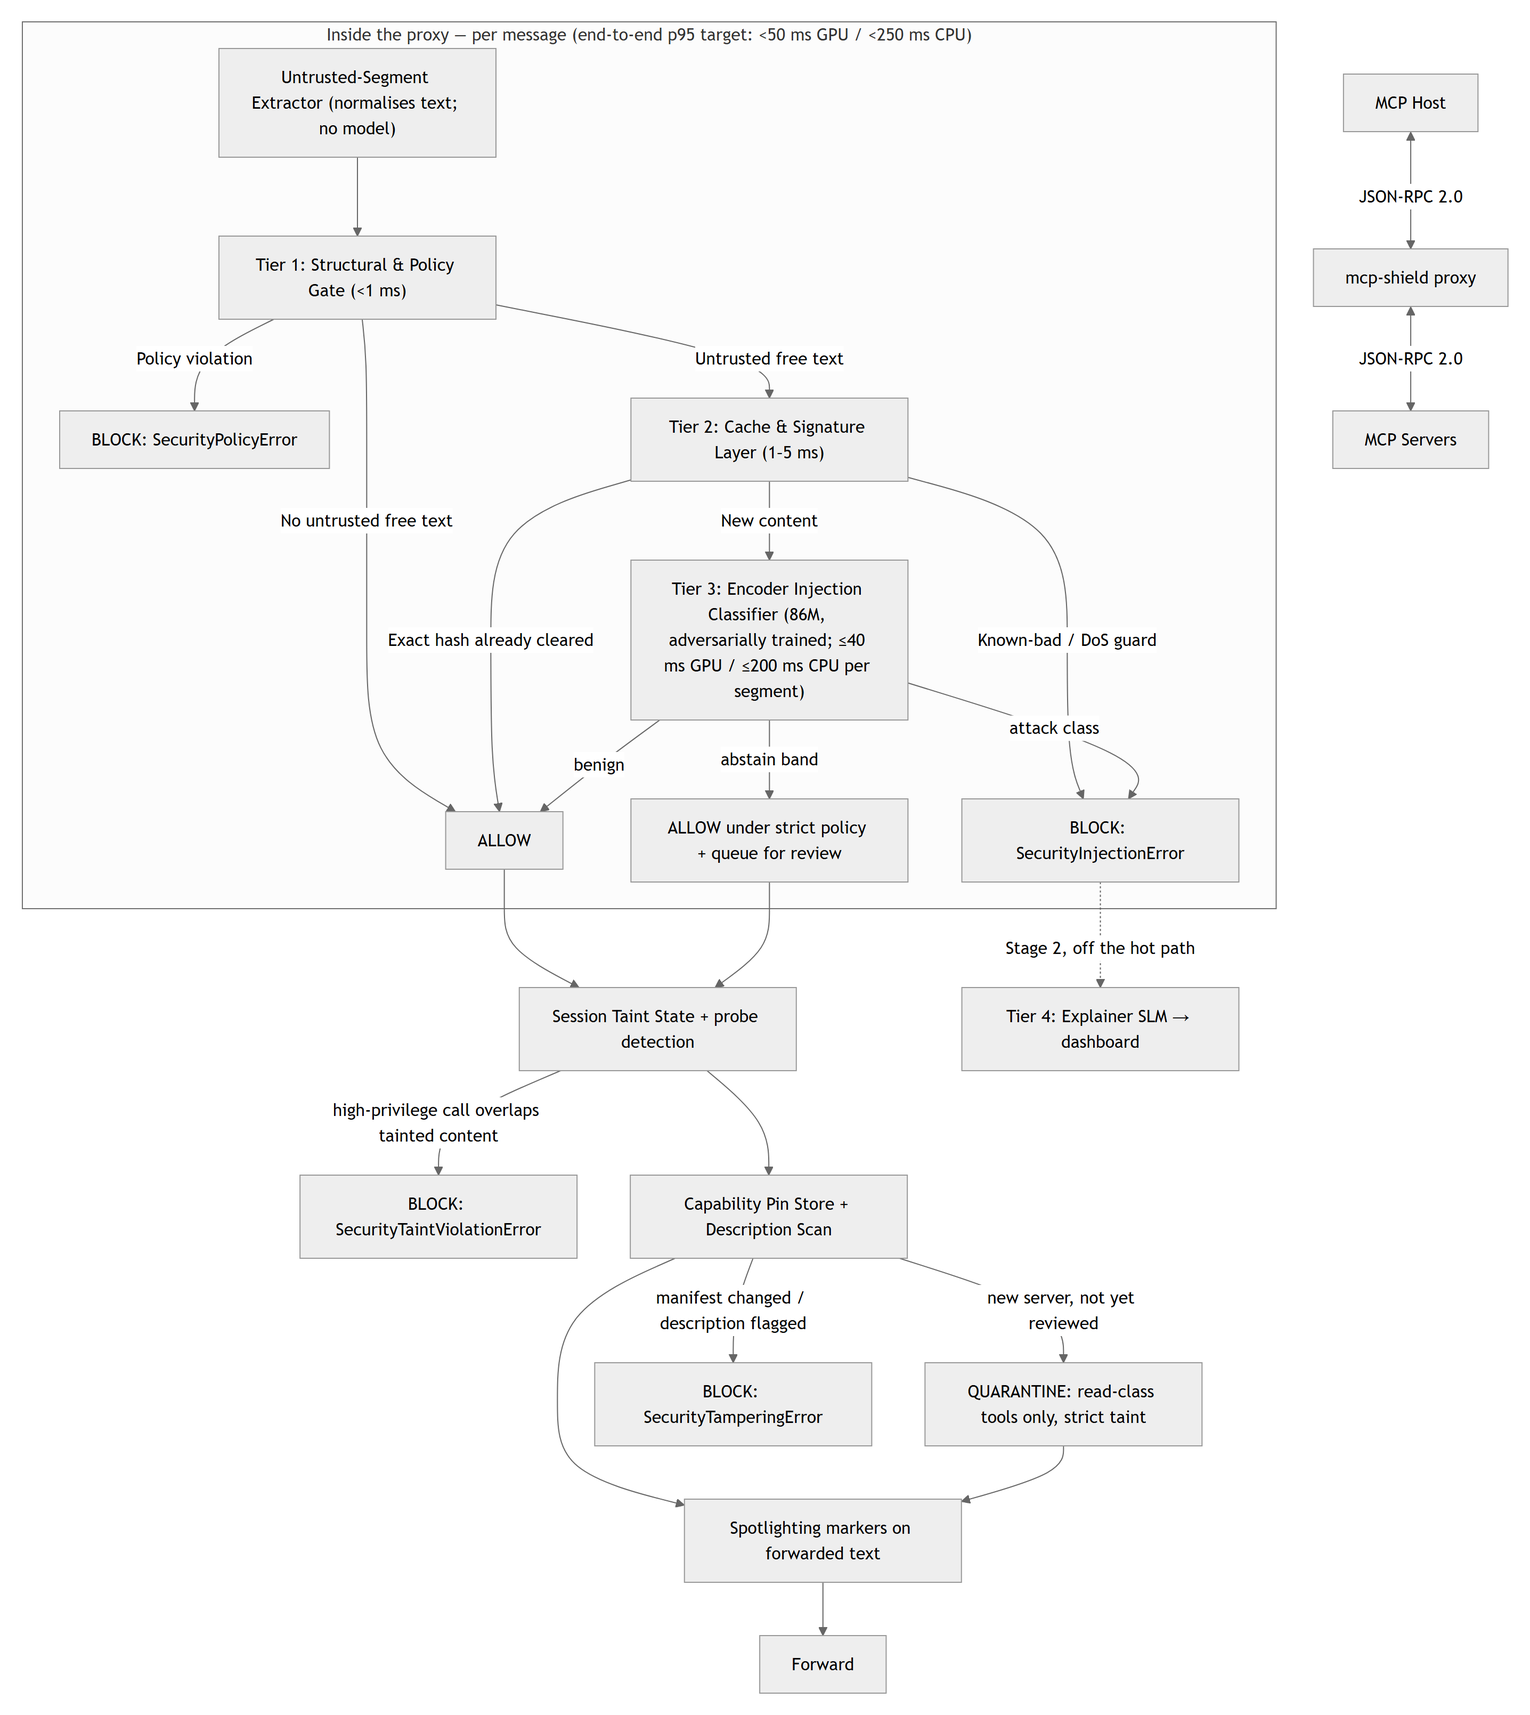
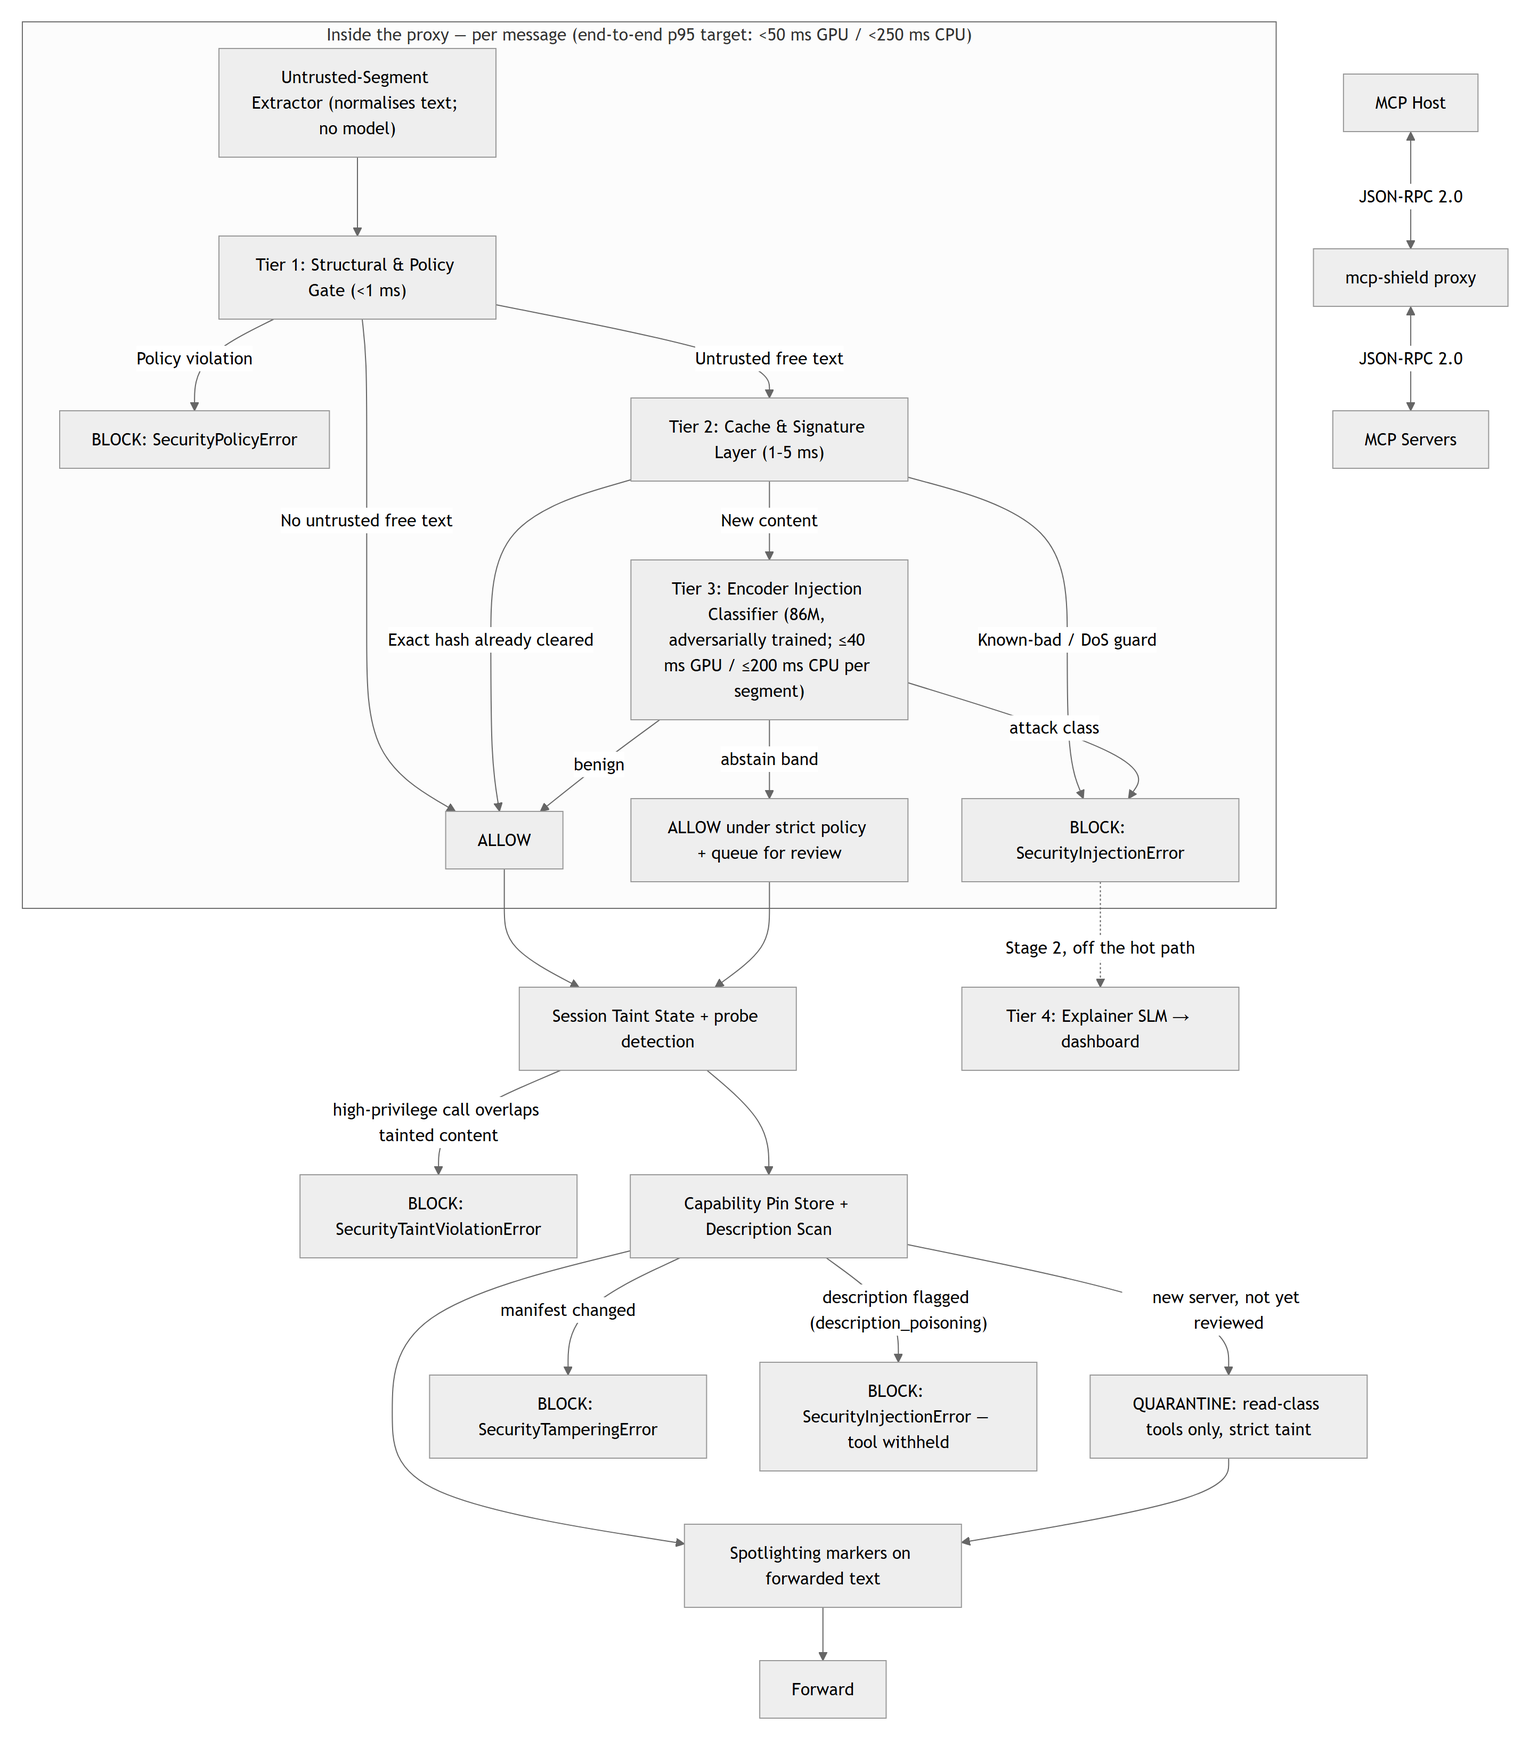
Fix the review findings: Fig 3 no-oracle, description_poisoning error class, drift
Fig 3 and slide v.2 showed the proxy returning the error class and
probability to the host; the host receives only the opaque stub, so the
diagram now logs the class locally and sends the stub, with the server
receiving nothing. description_poisoning is a classifier verdict and
raises SecurityInjectionError (tool withheld); SecurityTamperingError is
reserved for a manifest that changed after pinning — cascade diagram
split accordingly in 02, README and the script, stated in 02 §5/§8,
06 and the Review-2 error table, dashboard quarantine class fixed.
Dashboard blocked tile matches its own list; 07 TOML shows the real
default audit path; H1 titles of 01/04/06/07 match their filenames;
script references in numeric order. Fig 3 and the cascade PNG
re-exported.

diff --git a/Dashboard Prototype.html b/Dashboard Prototype.html
@@ -422,7 +422,7 @@
   servers.forEach(s => s.tools.forEach(([t, c]) => tools.push({ server: s.id, tool: t, cls: c, by: c === 'read' ? 'name heuristic' : (t === 'run_shell' ? 'config' : (['send_email','fetch_url','search','export_workspace'].includes(t) ? 'name heuristic' : 'annotation ↑')), shell: s.mode === 'shell', approval: t === 'run_shell' || t === 'send_email' || t === 'execute', cap: c === 'read' ? '2 MB (truncate + flag)' : '256 KB' })));
 
   const state = { tab: 'traffic', traffic: seedTraffic.map(r => ({ time: r[0], dir: r[1], session: r[2], server: r[3], tool: r[4], method: r[5], segs: r[6], tiers: r[7], verdict: r[8], ref: r[9] || null })),
-    selected: flagged[0].ref, checked: 1284, blocked: 6, paused: false, spark: { checked: [61,72,80,74,90,97,88,102,110,96,104,115], p95: [39,42,40,44,41,38,43,40,42,39,41,41], blocked: [0,1,0,0,2,0,1,0,0,1,0,1] } };
+    selected: flagged[0].ref, checked: 1284, blocked: 5, paused: false, spark: { checked: [61,72,80,74,90,97,88,102,110,96,104,115], p95: [39,42,40,44,41,38,43,40,42,39,41,41], blocked: [0,1,0,0,1,0,1,0,0,1,0,1] } };
 
   // ---------------- charts ----------------
   function sparkline(values, opts) {
@@ -435,7 +435,7 @@
   function renderTiles() {
     const t = [
       { lbl: 'Messages checked · 24 h', val: state.checked.toLocaleString(), delta: '+9 % vs yesterday', dc: '', spark: state.spark.checked, sl: 'messages per 2-hour bucket' },
-      { lbl: 'Blocked · 24 h', val: String(state.blocked), unit: '+1 quarantined', delta: '2 taint · 2 injection · 1 policy · 1 DoS', dc: '', spark: state.spark.blocked, sl: 'blocks per 2-hour bucket' },
+      { lbl: 'Blocked · 24 h', val: String(state.blocked), unit: '+1 quarantined', delta: '1 injection · 1 taint · 1 policy · 1 tampering · 1 DoS', dc: '', spark: state.spark.blocked, sl: 'blocks per 2-hour bucket' },
       { lbl: 'End-to-end p95 latency', val: '41', unit: 'ms · GPU', delta: 'target < 50 ms GPU · < 250 ms CPU', dc: 'good', spark: state.spark.p95, sl: 'p95 latency per 2-hour bucket, ms' },
       { lbl: 'Sessions', val: '2', unit: '1 strict', delta: 'sess-9b2f escalated by probe detection', dc: 'bad', spark: [1,1,2,2,2,2,2,2,2,2,2,2], sl: 'active sessions' },
     ];
@@ -500,7 +500,7 @@
     $('#flag-detail').innerHTML = `
       <dl class="kv"><dt>Verdict</dt><dd>${kindChip(f.kind)} <span style="margin-left:6px">${esc(f.tier)} · <code>${esc(f.cls)}</code>${f.overlap ? ' · ' + esc(f.overlap) : ''}</span></dd>
         <dt>Where</dt><dd><b>${esc(f.server)}</b> · <code>${esc(f.tool)}</code> · ${f.dir === '←' ? 'server → host' : 'host → server'} · session <code>${esc(f.session)}</code> · ${esc(f.time)}</dd>
-        <dt>Error class</dt><dd><code>${{ injection: 'SecurityInjectionError', dos: 'SecurityInjectionError', policy: 'SecurityPolicyError', taint: 'SecurityTaintViolationError', tamper: 'SecurityTamperingError', quarantine: 'SecurityTamperingError (withheld)', abstain: '— (forwarded)' }[f.kind]}</code></dd></dl>
+        <dt>Error class</dt><dd><code>${{ injection: 'SecurityInjectionError', dos: 'SecurityInjectionError', policy: 'SecurityPolicyError', taint: 'SecurityTaintViolationError', tamper: 'SecurityTamperingError', quarantine: 'SecurityInjectionError (description_poisoning · tool withheld)', abstain: '— (forwarded)' }[f.kind]}</code></dd></dl>
       ${probRow}
       <div><h4>Offending segment <span style="font-weight:400;text-transform:none;letter-spacing:0">— kept locally only · redacted · 7-day retention</span></h4><pre class="seg">${highlight(f.segment)}</pre></div>
       ${f.note ? `<div class="note">${esc(f.note)}</div>` : ''}

diff --git a/02 - System Architecture & Technical Implementation.md b/02 - System Architecture & Technical Implementation.md
@@ -130,7 +130,8 @@ graph TD
     Taint -->|"write/execute/egress call overlaps tainted content"| Deny3["BLOCK: SecurityTaintViolationError"]
     Taint --> Pin["Capability Pin Store (SHA-256, per server) + description scan"]
     Pin -->|"new server, manifest not yet reviewed"| Quar["QUARANTINE: read-class tools only, strict taint, until accepted"]
-    Pin -->|"manifest changed / description flagged"| Deny4["BLOCK: SecurityTamperingError"]
+    Pin -->|"manifest changed"| Deny4["BLOCK: SecurityTamperingError"]
+    Pin -->|"description flagged (description_poisoning)"| Deny5["BLOCK: SecurityInjectionError — tool withheld"]
     Pin --> Spot["Spotlighting: wrap forwarded text in untrusted-data markers"]
     Quar --> Spot
     Spot --> Out["Forward to host / server"]
@@ -219,7 +220,7 @@ A deterministic walker over the JSON-RPC message that yields `(context_prefix, t
 ## 5. Capability Pinning + Description Scanning (Stage 1)
 
 - **Pin**: on the first `tools/list` (also `prompts/list`, `resources/templates/list`) from a server, each tool's canonical JSON (name, description, `inputSchema`, `outputSchema`, annotations) is hashed with SHA-256 and stored in a per-server pin store. Every later list result is compared; any changed or added tool is withheld from the host and raises **`SecurityTamperingError`** until the developer explicitly re-pins (`mcp-shield pin --server <name> --accept`). `subscriptions/listen` → `toolsListChanged` is the spec-native trigger for re-checking. **Legitimate updates look like rug-pulls**: any server update changes descriptions, so on change the dashboard shows a description diff and the re-scan verdict and offers one-click re-pin when the scan is clean; known-manifest version bumps are guided the same way. Without this every `npm update` would be an alert — a UX limitation, stated as such.
-- **Scan**: every description and schema string is run through Tier 3 at list time (`description_poisoning` class). A flagged tool is never exposed to the host. This is what addresses **first-contact** poisoning, which pinning alone cannot.
+- **Scan**: every description and schema string is run through Tier 3 at list time (`description_poisoning` class). A flagged tool is never exposed to the host — this is a classifier verdict, so it raises **`SecurityInjectionError`** (class `description_poisoning`); `SecurityTamperingError` is reserved for a manifest that *changed* after pinning. This is what addresses **first-contact** poisoning, which pinning alone cannot.
 - **First-contact quarantine ("trust on first review")**: a server with no entry in the pin store starts **quarantined**: its `read`-class tools are exposed, its `write` / `execute` / `egress` tools are withheld, and all of its results are handled under `strict` taint policy — until the developer has looked at the pinned manifest and the scan verdicts and accepted them (`mcp-shield pin --server <name> --accept`, or one click in the dashboard). The package also ships **known manifests**: published SHA-256 pins for the reference MCP servers, so those are trusted on match without a manual step.
 - **Known limitation (TOFU, narrowed)**: pinning alone is trust-on-first-use, the same limitation the base paper names for ATTESTMCP. Quarantine turns it into trust-on-first-*review* — a human sees the descriptions and the classifier's verdicts before a new server gets any dangerous capability — but a reviewer can still approve a description whose malice neither they nor the classifier recognise.
 
@@ -256,7 +257,7 @@ The same fields live in `mcp-shield.toml` for the proxy. There is no separate `s
 |Error|Raised by|Meaning|
 |:--|:--|:--|
 |`SecurityPolicyError`|Tier 1|Header/body mismatch, disallowed tool, argument policy violation, schema violation|
-|`SecurityInjectionError`|Tier 2/3|Known-bad signature, DoS guard, or classifier verdict ≠ `benign` (class + probability recorded internally)|
+|`SecurityInjectionError`|Tier 2/3|Known-bad signature, DoS guard, or classifier verdict ≠ `benign` (class + probability recorded internally) — including `description_poisoning` at list time, where the tool is withheld|
 |`SecurityTaintViolationError`|Taint engine|High-privilege call whose arguments overlap tainted content, or any such call under `strict` policy|
 |`SecurityTamperingError`|Pin store|Tool manifest changed after pinning|
 

diff --git a/MCP-Shield Complete Presentation Script & Project Blueprint.md b/MCP-Shield Complete Presentation Script & Project Blueprint.md
@@ -349,7 +349,8 @@ graph TD
     Taint -->|"high-privilege call overlaps tainted content"| Deny3["BLOCK: SecurityTaintViolationError"]
     Taint --> Pin["Capability Pin Store + Description Scan"]
     Pin -->|"new server, not yet reviewed"| Quar["QUARANTINE: read-class tools only, strict taint"]
-    Pin -->|"manifest changed / description flagged"| Deny4["BLOCK: SecurityTamperingError"]
+    Pin -->|"manifest changed"| Deny4["BLOCK: SecurityTamperingError"]
+    Pin -->|"description flagged (description_poisoning)"| Deny5["BLOCK: SecurityInjectionError — tool withheld"]
     Pin --> Spot["Spotlighting markers on forwarded text"]
     Quar --> Spot
     Spot --> Out["Forward"]
@@ -499,9 +500,6 @@ Numbering matches [[05 - Literature Survey & Research Papers]], which carries fu
 16. **Fairoze, J., Garg, S., Lee, K. et al.** "Bypassing Prompt Guards in Production with Controlled-Release Prompting." arXiv:2510.01529, 2025.
 17. **Zhang, Z. et al.** "Agent-SafetyBench: Evaluating the Safety of LLM Agents." arXiv:2412.14470, 2024.
 18. **Lupinacci, M. et al.** "The Dark Side of LLMs: Agent-based Attacks for Complete Computer Takeover." arXiv:2507.06850, 2025.
-27. **Madry, A., Makelov, A., Schmidt, L., Tsipras, D. & Vladu, A.** "Towards Deep Learning Models Resistant to Adversarial Attacks." ICLR 2018. arXiv:1706.06083.
-28. **Ebrahimi, J., Rao, A., Lowd, D. & Dou, D.** "HotFlip: White-Box Adversarial Examples for Text Classification." ACL 2018. arXiv:1712.06751.
-29. **Jin, D., Jin, Z., Zhou, J. T. & Szolovits, P.** "Is BERT Really Robust? A Strong Baseline for Natural Language Attack on Text Classification and Entailment." AAAI 2020. arXiv:1907.11932.
 19. **Model Context Protocol.** Specification revision 2026-07-28, "Key Changes" changelog (SEP-2243, SEP-2322, SEP-2549, SEP-2567, SEP-2575, SEP-2577).
 20. **Model Context Protocol.** "Security Best Practices." Specification 2026-07-28.
 21. **Equixly.** "MCP Servers: The New Security Nightmare." Blog, 29 March 2025.
@@ -510,3 +508,6 @@ Numbering matches [[05 - Literature Survey & Research Papers]], which carries fu
 24. **Invariant Labs.** `mcp-scan`. GitHub, 2025.
 25. **riseandignite.** `mcp-shield` (unrelated static scanner). GitHub, 2025.
 26. **Cisco AI Defense.** `mcp-scanner`. GitHub / PyPI, 2025.
+27. **Madry, A., Makelov, A., Schmidt, L., Tsipras, D. & Vladu, A.** "Towards Deep Learning Models Resistant to Adversarial Attacks." ICLR 2018. arXiv:1706.06083.
+28. **Ebrahimi, J., Rao, A., Lowd, D. & Dou, D.** "HotFlip: White-Box Adversarial Examples for Text Classification." ACL 2018. arXiv:1712.06751.
+29. **Jin, D., Jin, Z., Zhou, J. T. & Szolovits, P.** "Is BERT Really Robust? A Strong Baseline for Natural Language Attack on Text Classification and Entailment." AAAI 2020. arXiv:1907.11932.

diff --git a/Review-2 - PPT Content.md b/Review-2 - PPT Content.md
@@ -246,9 +246,9 @@ _Figure 2: Deployment: the proxy sits between the host and every MCP server._ ·
 | Mechanism | Stage | Raises |
 |:--|:--|:--|
 | Tier 1 policy (headers, schema, arguments) | 1 | `SecurityPolicyError` |
-| Tier 2/3 detection (signatures, DoS guard, classifier) | 1 | `SecurityInjectionError` (class + probability) |
+| Tier 2/3 detection (signatures, DoS guard, classifier — including the description scan at list time) | 1 | `SecurityInjectionError` (class + probability, recorded locally) |
 | Session taint + probe detection | 1 (approval flow 2) | `SecurityTaintViolationError` |
-| Pinning + scan + quarantine | 1 | `SecurityTamperingError` |
+| Pinning + quarantine (manifest changed after pinning) | 1 | `SecurityTamperingError` |
 
 - Error views by audience: the **host** receives one opaque stub for all four (`Request blocked by MCP-Shield policy (ref …)`); the **dashboard / audit log** get tier, class, probability and segment; the **server** gets nothing. A block is never an oracle — the design does not rely on being hidden, only on not being informative.
 
@@ -297,14 +297,17 @@ sequenceDiagram
     S-->>P: result: issue body text
     Note over P: Extractor → Tier 2 cache miss → Tier 3 classify
     alt indirect_injection
-        P-->>H: SecurityInjectionError (class, probability)
+        Note over P: SecurityInjectionError (class, probability) logged locally, shown in the dashboard
+        P-->>H: error -32000 "Request blocked by MCP-Shield policy (ref 7f3a92c1)"
+        Note over S: receives nothing
     else benign / abstain
         Note over P: record TaintRecord, abstain means session goes strict
-        P-->>H: result forwarded
+        P-->>H: result forwarded inside Spotlighting markers
     end
     H->>P: tools/call run_shell (args overlap tainted text)
-    Note over P: taint overlap ≥ threshold on an execute-class tool
-    P-->>H: SecurityTaintViolationError
+    Note over P: taint overlap ≥ threshold on an execute-class tool, SecurityTaintViolationError logged locally
+    P-->>H: error -32000 "Request blocked by MCP-Shield policy (ref a91d40e7)"
+    Note over S: call never forwarded
 ```
 
 ![[Review-2 - Fig 3 Request Path Sequence.png]]

diff --git a/06 - Fortified Solution & Defense Upgrades.md b/06 - Fortified Solution & Defense Upgrades.md
@@ -1,4 +1,4 @@
-# 06 - Fortified Solution Architecture & Defense Upgrades
+# 06 - Fortified Solution & Defense Upgrades
 
 > **Focus**: how each vulnerability in [[01 - Threat Model & Vulnerabilities]] is addressed, by which mechanism from [[02 - System Architecture & Technical Implementation]], at which delivery stage, and with which known limits. No defence here is "bulletproof"; each row says what it detects, what it mitigates, and what it leaves open.
 
@@ -70,7 +70,7 @@ graph TD
 ### 2. Capability Pinning + Description Scanning (Stage 1)
 
 - **Pin**: canonical-JSON SHA-256 per tool on first `tools/list`; compared on every later listing and on `toolsListChanged`; any change withholds the tool and raises `SecurityTamperingError` until the developer re-pins explicitly.
-- **Scan**: descriptions and schema strings go through Tier 3 at list time; a flagged tool is never shown to the host.
+- **Scan**: descriptions and schema strings go through Tier 3 at list time; a flagged tool is never shown to the host (`SecurityInjectionError`, class `description_poisoning` — `SecurityTamperingError` is only for a manifest that changed).
 - **First-contact quarantine**: a server with no pin yet exposes only `read`-class tools and runs under `strict` taint until the developer reviews the manifest and the scan verdicts and accepts them; published pins for the reference servers are trusted on match.
 - **Known limitation — TOFU, narrowed**: pinning alone protects against *changes* after first contact; quarantine puts a human review in front of first contact, but a reviewer can still accept a description whose malice neither they nor the classifier recognise.
 

diff --git a/07 - Model Distribution, PyPI Packaging & Local Dashboard.md b/07 - Model Distribution, PyPI Packaging & Local Dashboard.md
@@ -1,4 +1,4 @@
-# 07 - Model Hosting, PyPI Deployment & Local Dashboard Architecture
+# 07 - Model Distribution, PyPI Packaging & Local Dashboard
 
 > **Focus**: zero-cost model distribution, the PyPI release pipeline, the OS-aware runtime selection performed by `mcp-shield doctor`, and the localhost security dashboard — all aligned to the canonical design in [[02 - System Architecture & Technical Implementation]]. Stage tags follow `02` §9.
 
@@ -343,7 +343,7 @@ graph TD
 ```toml
 # mcp-shield.toml (excerpt)
 [audit]
-file          = "./mcp-shield-audit.jsonl"
+file          = "~/.cache/mcp-shield/audit.jsonl"   # default = the platformdirs cache dir for the OS (§1); any path accepted
 otlp_endpoint = "http://localhost:4318"     # optional
 
 [auth]

diff --git a/README.md b/README.md
@@ -81,7 +81,8 @@ graph TD
     Taint -->|"high-privilege call overlaps tainted content"| Deny3["BLOCK: SecurityTaintViolationError"]
     Taint --> Pin["Capability Pin Store + Description Scan"]
     Pin -->|"new server, not yet reviewed"| Quar["QUARANTINE: read-class tools only, strict taint"]
-    Pin -->|"manifest changed / description flagged"| Deny4["BLOCK: SecurityTamperingError"]
+    Pin -->|"manifest changed"| Deny4["BLOCK: SecurityTamperingError"]
+    Pin -->|"description flagged (description_poisoning)"| Deny5["BLOCK: SecurityInjectionError — tool withheld"]
     Pin --> Spot["Spotlighting markers on forwarded text"]
     Quar --> Spot
     Spot --> Out["Forward"]

diff --git a/01 - Threat Model & Vulnerabilities.md b/01 - Threat Model & Vulnerabilities.md
@@ -1,4 +1,4 @@
-# 01 - Threat Model & Advanced Vulnerabilities
+# 01 - Threat Model & Vulnerabilities
 
 ## The "Confused Deputy" Problem in MCP
 > Terminology: the MCP specification's *Security Best Practices* page uses "confused deputy" for an OAuth-proxy consent-bypass attack. This vault, like the base paper, uses the term in its classic sense — a privileged program (the host LLM) tricked into misusing its authority.

diff --git a/04 - Brainstorming Archive & Trade-off Analysis.md b/04 - Brainstorming Archive & Trade-off Analysis.md
@@ -1,4 +1,4 @@
-# 04 - Brainstorming Archive & Trade-Off Analysis
+# 04 - Brainstorming Archive & Trade-off Analysis
 
 > **Context**: Summary of the 2-week intensive brainstorming session evaluating 7 candidate Agentic AI project ideas for the final-year major project.
 
